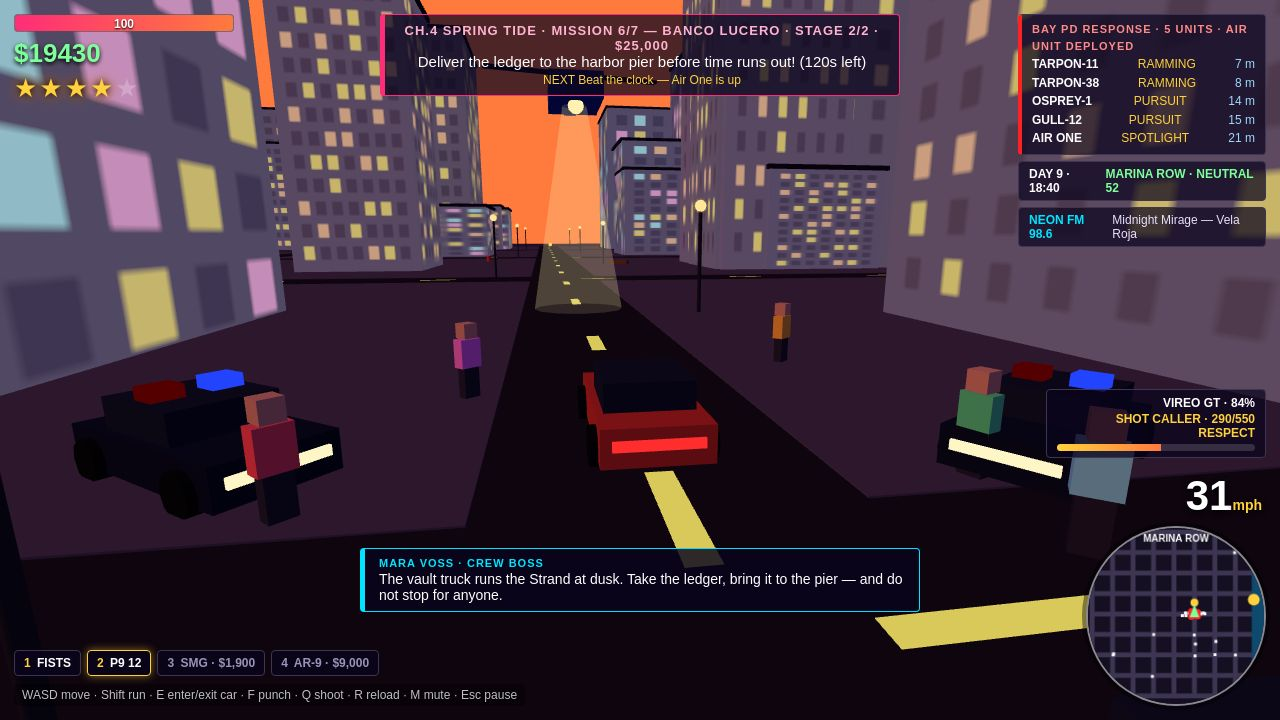
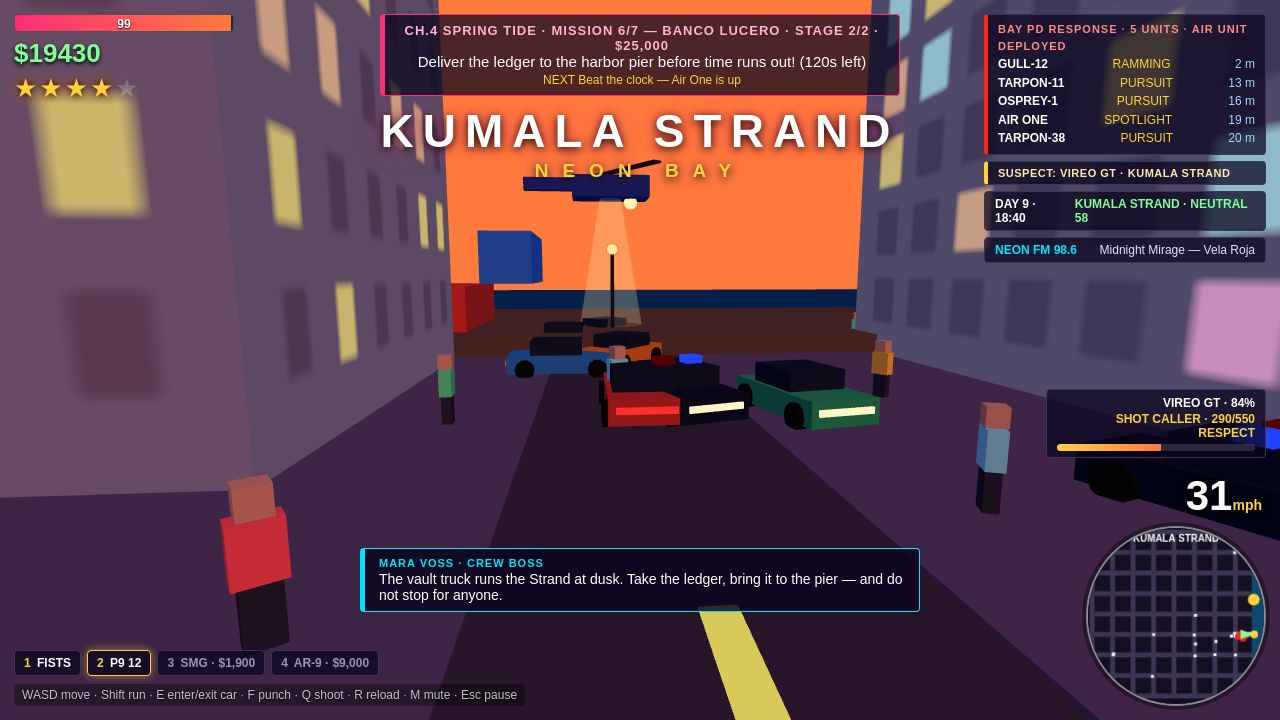
Round 6: brighter dusk + daylight shootout, beachfront chase with heli in frame, district title cards

diff --git a/game/src/main.js b/game/src/main.js
@@ -1,6 +1,8 @@
 // Neon Bay — open-world crime game. Original fiction: Jax Marlowe, wheelman for Mara Voss.
 // Three.js low-poly dusk city. Keyboard + mouse. ?shot=chase|shootout|map|title&seed=N
 // stages a money shot (legacy ?shot=start|drive|wanted|mission still work).
+// Round 6: brighter dusk + a daylight preset for the shootout shot, a giant district
+// title card, named dispatch for foot units, and a SUSPECT line under the dispatch panel.
 import * as THREE from 'three';
 import { buildCity, districtAt } from './city.js';
 import { createAudio } from './audio.js';
@@ -23,7 +25,7 @@ const scene = new THREE.Scene();
 const camera = new THREE.PerspectiveCamera(62, innerWidth / innerHeight, 0.1, 1200);
 addEventListener('resize', () => { camera.aspect = innerWidth / innerHeight; camera.updateProjectionMatrix(); renderer.setSize(innerWidth, innerHeight); });
 
-const city = buildCity(scene, seed, { night: SHOT === 'shootout' });
+const city = buildCity(scene, seed, { day: SHOT === 'shootout' });
 const rand = mulberry32(seed * 7919 + 13);
 const audio = createAudio();
 
@@ -68,10 +70,12 @@ function rankFor(r) { let cur = RANKS[0], next = null; for (let i = 0; i < RANKS
 const player = { pos: new THREE.Vector3(city.spawn.x, 0, city.spawn.z), heading: 0, mesh: null, speed: 0 };
 const cars = [];   // {group, heading, speed, ai, loop, wp, color, isPolice, isTarget, lights:[m1,m2], name, condition, unit}
 const peds = [];   // {group, heading, speed, state, tx, tz, down, downT, hp}
-const cops = [];   // foot police {group, heading, speed, hp, hitCd}
+const cops = [];   // foot police {group, heading, speed, hp, hitCd, unit}
 const geckos = []; // {mesh, x, z, taken}
 let policeSeq = 0;
 const POLICE_UNITS = ['TARPON-38', 'TARPON-11', 'GULL-12', 'OSPREY-1', 'PELICAN-11', 'BARRACUDA-18', 'HERON-2', 'MAKO-6'];
+let copSeq = 0;
+const COP_UNITS = ['TARPON-21', 'TARPON-27', 'GULL-09', 'OSPREY-7', 'PELICAN-14', 'HERON-19'];
 const CAR_NAMES = { 0xc0392b: 'VIREO GT', 0x2980b9: 'CALYX SPRINT', 0xf1c40f: 'RUKAN PELO GT', 0x7f8c8d: 'SQUALL GT', 0x8e44ad: 'VELOZ COMET RS', 0x27ae60: 'TARPON CRUISER', 0xe67e22: 'MALECON GT', 0xecf0f1: 'LANTERNA S', 0x2c3e50: 'NOCTURNE GT' };
 
 // ---------- meshes ----------
@@ -138,7 +142,7 @@ function spawnCop(x, z, guard = false) {
     cone.position.y = 2.5; cone.rotation.x = Math.PI; g.add(cone);
   }
   g.position.set(x, 0, z); scene.add(g);
-  const c = { group: g, heading: 0, speed: 0, hp: 3, hitCd: 0, down: false, downT: 0, guard };
+  const c = { group: g, heading: 0, speed: 0, hp: 3, hitCd: 0, down: false, downT: 0, guard, unit: COP_UNITS[copSeq++ % COP_UNITS.length] };
   cops.push(c); return c;
 }
 
@@ -163,7 +167,11 @@ function updateHeli(dt) {
   const on = G.wanted >= 4 && (G.screen === 'play' || !!SHOT);
   heli.group.visible = on;
   if (!on) return;
-  heli.group.position.set(player.pos.x, 11, player.pos.z - 22); // ahead, above the open road: visible in the chase camera
+  // Round 6: low (y 9) and ahead of the player's heading, so the whole airframe
+  // sits in the chase camera instead of only the spotlight cone.
+  const hx = G.inCar && G.car ? Math.sin(G.car.heading) : Math.sin(player.heading);
+  const hz = G.inCar && G.car ? Math.cos(G.car.heading) : Math.cos(player.heading);
+  heli.group.position.set(player.pos.x + hx * 20, 9, player.pos.z + hz * 20);
   heli.rotor.rotation.y += dt * 14;
 }
 
@@ -905,6 +913,16 @@ function drawMinimap() {
   mm.fillStyle = '#fff'; mm.font = 'bold 10px Arial'; mm.textAlign = 'center';
   mm.fillText(d.name, S / 2, 14);
 }
+// Giant district title card: shown whenever the player enters a new district.
+let lastDistrict = '';
+function showDistrictCard(d) {
+  $('district-card-name').textContent = d.name;
+  $('district-card-sub').textContent = 'NEON BAY';
+  show($('district-card'), true);
+  clearTimeout(showDistrictCard._t);
+  // staged shots keep it up longer so the screenshot catches it mid-display
+  showDistrictCard._t = setTimeout(() => show($('district-card'), false), SHOT ? 8000 : 3500);
+}
 let hudT = 0;
 function updateHUD(dt) {
   hudT += dt; if (hudT < 0.12) return; hudT = 0;
@@ -925,6 +943,7 @@ function updateHUD(dt) {
   $('clock-text').textContent = `DAY ${G.day} · ${fmtClock(G.minutes)}`;
   const d = districtAt(player.pos.x, player.pos.z);
   $('district-text').textContent = `${d.name} · ${d.mood} ${d.standing}`;
+  if (d.name !== lastDistrict) { lastDistrict = d.name; showDistrictCard(d); }
   // weapons: P9 ammo + selected slot
   $('ammo-text').textContent = G.ammo;
   $('wslot-0').classList.toggle('sel', G.ammo <= 0);
@@ -935,7 +954,7 @@ function updateHUD(dt) {
   const { cur, next } = rankFor(G.respect);
   $('rank-line').textContent = `${cur.name} · ${G.respect}${next ? '/' + next.at : ''} RESPECT`;
   $('respect-bar').style.width = (next ? clamp(G.respect / next.at * 100, 0, 100) : 100) + '%';
-  // dispatch panel: named units + role + distance
+  // dispatch panel: named units + role + distance (foot units now named too, no more "GUARD")
   const rows = [];
   for (const pc of policeCars()) {
     const dist = dist2d(pc.group.position.x, pc.group.position.z, player.pos.x, player.pos.z);
@@ -943,7 +962,7 @@ function updateHUD(dt) {
     rows.push({ name: pc.unit || 'TARPON', role, dist });
   }
   if (heli.group.visible) rows.push({ name: 'AIR ONE', role: 'SPOTLIGHT', dist: dist2d(heli.group.position.x, heli.group.position.z, player.pos.x, player.pos.z) });
-  for (const c of cops) if (!c.down) rows.push({ name: c.guard ? 'GUARD' : 'FOOT UNIT', role: 'ON FOOT', dist: dist2d(c.group.position.x, c.group.position.z, player.pos.x, player.pos.z) });
+  for (const c of cops) if (!c.down) rows.push({ name: c.unit || 'FOOT UNIT', role: c.guard ? 'GUARD' : 'ON FOOT', dist: dist2d(c.group.position.x, c.group.position.z, player.pos.x, player.pos.z) });
   rows.sort((a, b) => a.dist - b.dist);
   const shown = rows.slice(0, 6);
   $('dispatch-title').textContent = `BAY PD RESPONSE · ${rows.length} UNIT${rows.length === 1 ? '' : 'S'}${G.wanted >= 4 ? ' · AIR UNIT DEPLOYED' : ''}`;
@@ -951,6 +970,7 @@ function updateHUD(dt) {
     ? shown.map(r => `<div class="drow"><b>${r.name}</b><span class="role">${r.role}</span><span class="dist">${fmtDist(r.dist)}</span></div>`).join('') +
       (rows.length > 6 ? `<div class="drow"><span>+${rows.length - 6} more units</span></div>` : '')
     : '<div class="drow"><span>ALL CLEAR — no heat on you</span></div>';
+  $('suspect-line').textContent = `SUSPECT: ${driving ? G.car.name : 'JAX MARLOWE'} · ${d.name}`;
 }
 
 // ---------- shot staging ----------
@@ -1001,40 +1021,59 @@ function stageShot(name) {
   }
   startMission(0);
   if (name === 'chase') {
-    // Shot 1: late-game chase, Mission 6 Banco Lucero, wanted 4 + helicopter, dusk.
+    // Shot 1 (round 6): late-game chase, Mission 6 Banco Lucero, wanted 4 + helicopter,
+    // brightened dusk, on the beachfront road east through Kumala Strand — the camera
+    // looks east down the Strand toward the harbour water, pier and lighthouse, with
+    // palms and traffic ahead of the car and AIR ONE whole in the frame.
     G.money = 19430; G.respect = 290; G.day = 9; G.minutes = 18 * 60 + 40;
     Object.assign(STATS, { carsStolen: 41, copsEscaped: 12, kmDriven: 48.2, takenOut: 23, geckos: 12, missionsDone: 5 });
     startMission(5); G.missionStage = 1; G.hasPackage = true; G.missionTimer = 120; updateObjective();
-    const car = spawnCar(45, -5, Math.PI, 0xc0392b, { name: 'VIREO GT', condition: 84 });
-    player.pos.set(45, 0, -5); enterCar(car); G.wanted = 4; car.speed = 14;
+    const car = spawnCar(165, 45, Math.PI / 2, 0xc0392b, { name: 'VIREO GT', condition: 84 });
+    player.pos.set(165, 0, 45); enterCar(car); G.wanted = 4; car.speed = 14;
     for (let i = 0; i < 4; i++) {
       const pc = spawnPoliceCar();
-      pc.group.position.set([33, 57, 30, 60][i], 0, [-18, -16, -2, -4][i]); pc.speed = 16;
+      pc.group.position.set([145, 155, 178, 150][i], 0, [45, 52, 40, 38][i]); pc.speed = 16;
     }
-    G.camYaw = Math.PI;
-    clusterNear(45, -5);
+    G.camYaw = Math.PI / 2;
+    clusterNear(165, 45);
   } else if (name === 'shootout') {
-    // Shot 2: night shootout in Old Pasaru market — guards with red markers,
-    // fleeing peds, traffic, tracer fire. Mission 4, stage 2/2.
-    G.money = 6420; G.respect = 140; G.day = 4; G.minutes = 22 * 60 + 10;
-    startMission(3); G.missionStage = 1; G.hasPackage = true; G.missionTimer = 120; updateObjective();
-    player.pos.set(-105, 0, 45);
-    player.heading = Math.atan2(-88 - player.pos.x, 30 - player.pos.z);
+    // Shot 2 (round 6): a real daytime shootout — Mission 7 The Lamplighter on a
+    // bright city street in Marina Row: 6 guards with red markers, one already down,
+    // a burning van, fleeing pedestrians, tracer fire. The objective is a shoot
+    // order ("Clear out the guards"), not a delivery.
+    G.money = 6420; G.respect = 140; G.day = 4; G.minutes = 13 * 60 + 20;
+    startMission(6); updateObjective();
+    $('objective-title').textContent = 'CH.5 STORM SURGE · MISSION 7/7 — THE LAMPLIGHTER · $50,000';
+    $('objective-text').textContent = 'Clear out the guards (6 left) — the Combine\'s crew holds this street.';
+    $('objective-next').textContent = 'NEXT Deliver the files to the harbor pier';
+    player.pos.set(20, 0, 95);
+    player.heading = Math.atan2(55 - player.pos.x, 95 - player.pos.z); // face east down the street
     player.mesh.position.copy(player.pos); player.mesh.rotation.y = player.heading;
     G.camYaw = player.heading; G.ammo = 12;
-    // 3 guards with red markers ahead of the player
-    const guardPos = [[-92, 32], [-84, 24], [-112, 28]];
+    // 6 guards with red markers ahead of the player
+    const guardPos = [[38, 82], [48, 108], [55, 88], [70, 100], [44, 98], [78, 86]];
     for (const [gx, gz] of guardPos) spawnCop(gx, gz, true);
     // one guard already down, one tracer line in the air (frozen firefight)
-    const down = spawnCop(-98, 20, true); down.down = true; down.downT = 0; down.group.rotation.x = Math.PI / 2;
+    const down = spawnCop(62, 108, true); down.down = true; down.downT = 0; down.group.rotation.x = Math.PI / 2;
     const geo = new THREE.BufferGeometry().setFromPoints([
       new THREE.Vector3(player.pos.x, 1.6, player.pos.z),
-      new THREE.Vector3(-92, 1.4, 32),
+      new THREE.Vector3(38, 1.4, 82),
     ]);
     const tr = new THREE.Line(geo, new THREE.LineBasicMaterial({ color: 0xffe9a8 })); scene.add(tr);
+    // burning van: dark wreck + big flame cones + smoke column, close to the player
+    const van = spawnCar(48, 92, Math.PI / 2, 0x14141a, { name: 'BURNING VAN' });
+    van.group.position.y = 0;
+    const flame = new THREE.Mesh(new THREE.ConeGeometry(1.9, 4.6, 8), new THREE.MeshBasicMaterial({ color: 0xff7a00 }));
+    flame.position.set(48, 3.4, 92); scene.add(flame);
+    const flame2 = new THREE.Mesh(new THREE.ConeGeometry(1.2, 3.0, 8), new THREE.MeshBasicMaterial({ color: 0xffd23d }));
+    flame2.position.set(48, 3.0, 92); scene.add(flame2);
+    const smoke = new THREE.Mesh(new THREE.SphereGeometry(2.4, 8, 6), new THREE.MeshBasicMaterial({ color: 0x1c1c20, transparent: true, opacity: 0.75 }));
+    smoke.position.set(48, 6.4, 92); scene.add(smoke);
+    const smoke2 = new THREE.Mesh(new THREE.SphereGeometry(1.8, 8, 6), new THREE.MeshBasicMaterial({ color: 0x2a2a30, transparent: true, opacity: 0.55 }));
+    smoke2.position.set(48, 8.6, 92); scene.add(smoke2);
     // peds fleeing the gunfire
     peds.slice(0, 8).forEach(p => { p.state = 'flee'; p.fleeT = 5; });
-    clusterNear(-105, 45);
+    clusterNear(20, 95);
     peds.slice(0, 8).forEach(p => { p.state = 'flee'; p.fleeT = 5; });
   } else if (name === 'drive') {
     const car = spawnCar(-5, 45, 0, 0xc0392b, {});
@@ -1053,6 +1092,12 @@ function stageShot(name) {
     G.camYaw = player.heading; clusterNear(city.pickup.x, city.pickup.z);
   }
   updateObjective();
+  // the shootout shot overrides the objective text after updateObjective — restore it
+  if (name === 'shootout') {
+    $('objective-title').textContent = 'CH.5 STORM SURGE · MISSION 7/7 — THE LAMPLIGHTER · $50,000';
+    $('objective-text').textContent = 'Clear out the guards (6 left) — the Combine\'s crew holds this street.';
+    $('objective-next').textContent = 'NEXT Deliver the files to the harbor pier';
+  }
   updateHUD(1);
   show($('toast'), false); // staging toasts (e.g. "Car stolen") must not leak into the shot
   show($('banner'), false);

diff --git a/game/src/city.js b/game/src/city.js
@@ -1,6 +1,8 @@
 // Neon Bay city: 8x8 blocks over ~400x400 m, roads between blocks, harbour on the east.
 // Builds the Three.js scene and returns colliders + road data the gameplay uses.
 // opts.night renders the same city at night (darker sky, dimmer sun, brighter windows).
+// opts.day renders it in bright daylight (blue sky, strong sun) — used by the daytime
+// shootout shot; the default is a brightened dusk so streets read clearly.
 import * as THREE from 'three';
 import { mulberry32 } from './util.js';
 
@@ -34,6 +36,7 @@ export const GECKO_SPOTS = [
 
 export function buildCity(scene, seed, opts = {}) {
   const night = !!opts.night;
+  const day = !!opts.day;
   const rand = mulberry32(seed);
   const colliders = []; // {minX,maxX,minZ,maxZ}
   const roadLines = []; // x or z coords of road centrelines
@@ -43,30 +46,34 @@ export function buildCity(scene, seed, opts = {}) {
   for (let i = 0; i <= 8; i++) roadLines.push(-200 + i * 50 - 5);
 
   // --- sky: gradient dome + fog ---
-  scene.background = new THREE.Color(night ? 0x0b1026 : 0x2a1548);
-  scene.fog = new THREE.Fog(night ? 0x141a3a : 0x3a1e5e, 120, 520);
+  scene.background = new THREE.Color(day ? 0x8fd0f0 : night ? 0x0b1026 : 0x2a1548);
+  scene.fog = new THREE.Fog(day ? 0xa8d8ea : night ? 0x141a3a : 0x4a2a6e, 120, 520);
   const skyGeo = new THREE.SphereGeometry(600, 16, 12);
-  const skyMat = new THREE.MeshBasicMaterial({ color: night ? 0x1a2a55 : 0xff7a3d, side: THREE.BackSide, fog: false });
+  const skyMat = new THREE.MeshBasicMaterial({ color: day ? 0x6ec1f2 : night ? 0x1a2a55 : 0xff7a3d, side: THREE.BackSide, fog: false });
   const sky = new THREE.Mesh(skyGeo, skyMat);
   scene.add(sky);
-  // sun disc low on the horizon (west) — at night a pale moon in the same place
-  const sun = new THREE.Mesh(new THREE.CircleGeometry(night ? 18 : 28, 24), new THREE.MeshBasicMaterial({ color: night ? 0xe8ecff : 0xffd23d, fog: false }));
-  sun.position.set(-420, 55, -120); sun.lookAt(0, 40, 0); scene.add(sun);
+  // sun disc low on the horizon (west) — at night a pale moon in the same place,
+  // in daylight a high bright sun
+  const sun = new THREE.Mesh(new THREE.CircleGeometry(day ? 24 : night ? 18 : 28, 24), new THREE.MeshBasicMaterial({ color: day ? 0xfff3a0 : night ? 0xe8ecff : 0xffd23d, fog: false }));
+  sun.position.set(day ? -150 : -420, day ? 300 : 55, day ? -100 : -120); sun.lookAt(0, 40, 0); scene.add(sun);
 
   // --- lights ---
-  scene.add(new THREE.AmbientLight(night ? 0x4a5a9a : 0x8a6bb8, night ? 0.55 : 0.85));
-  const dir = new THREE.DirectionalLight(night ? 0x9ab4ff : 0xff9a5c, night ? 0.55 : 1.4);
-  dir.position.set(-180, 140, 60); scene.add(dir);
-  const hemi = new THREE.HemisphereLight(0x7a5cff, 0x2a1a3a, night ? 0.3 : 0.5); scene.add(hemi);
+  // Dusk is deliberately brighter than round 5 (ambient 0.85 -> 1.0, sun 1.4 -> 1.7,
+  // hemi 0.5 -> 0.65) so asphalt and facades read instead of going near-black.
+  scene.add(new THREE.AmbientLight(day ? 0xffffff : night ? 0x4a5a9a : 0xa08ad0, day ? 1.1 : night ? 0.55 : 1.0));
+  const dir = new THREE.DirectionalLight(day ? 0xfff2cc : night ? 0x9ab4ff : 0xff9a5c, day ? 2.2 : night ? 0.55 : 1.7);
+  dir.position.set(day ? 120 : -180, day ? 220 : 140, day ? 80 : 60); scene.add(dir);
+  const hemi = new THREE.HemisphereLight(day ? 0xbfd9ff : 0x7a5cff, day ? 0x8a7a5a : 0x2a1a3a, day ? 0.9 : night ? 0.3 : 0.65); scene.add(hemi);
 
   // --- ground ---
-  const ground = new THREE.Mesh(new THREE.PlaneGeometry(520, 520), new THREE.MeshLambertMaterial({ color: 0x2e2a33 }));
+  const ground = new THREE.Mesh(new THREE.PlaneGeometry(520, 520), new THREE.MeshLambertMaterial({ color: day ? 0x6a6258 : 0x3a3540 }));
   ground.rotation.x = -Math.PI / 2; ground.position.y = 0; scene.add(ground);
   // sidewalks: lighter slabs per block
-  const walkMat = new THREE.MeshLambertMaterial({ color: 0x4a4552 });
+  const walkMat = new THREE.MeshLambertMaterial({ color: day ? 0x8a8494 : 0x5a5468 });
   const walkGeo = new THREE.BoxGeometry(44, 0.15, 44);
-  // roads: dark strips
-  const roadMat = new THREE.MeshLambertMaterial({ color: 0x1c1a20 });
+  // roads: dark strips (round 6: much lighter than the near-black 0x1c1a20, so the
+  // street surface stays visible at dusk and reads clearly in daylight)
+  const roadMat = new THREE.MeshLambertMaterial({ color: day ? 0x4a4550 : 0x3a3540 });
   const roadGeoH = new THREE.PlaneGeometry(400, 10);
   const roadGeoV = new THREE.PlaneGeometry(10, 400);
   for (const c of roadLines) {
@@ -97,7 +104,7 @@ export function buildCity(scene, seed, opts = {}) {
     c.fillStyle = '#241d33'; c.fillRect(0, 0, 64, 128);
     const stepX = [10, 8, 12, 10][v], stepY = [12, 10, 14, 12][v];
     const wW = [6, 5, 7, 4][v], wH = [8, 6, 9, 7][v];
-    const lit = night ? [0.8, 0.6, 0.9, 0.7][v] : [0.55, 0.35, 0.7, 0.45][v];
+    const lit = day ? [0.25, 0.15, 0.3, 0.2][v] : night ? [0.8, 0.6, 0.9, 0.7][v] : [0.55, 0.35, 0.7, 0.45][v];
     const palettes = [['#ffd23d', '#ff9a5c', '#7de3ff', '#ff7ad9'], ['#ffd23d', '#ff9a5c'],
       ['#7de3ff', '#ff7ad9', '#ffd23d'], ['#ff9a5c', '#ffd23d']];
     const pal = palettes[v];
@@ -111,7 +118,7 @@ export function buildCity(scene, seed, opts = {}) {
   const bldgCols = [0x3a3450, 0x4a2f4d, 0x2f3d5c, 0x503a2e, 0x37304a, 0x5c2f3d];
   const bldgMats = [];
   for (let i = 0; i < 12; i++) bldgMats.push(new THREE.MeshLambertMaterial({
-    color: bldgCols[i % bldgCols.length], emissive: 0xffffff, emissiveMap: winTexes[i % winTexes.length], emissiveIntensity: night ? 0.9 : 0.55 }));
+    color: bldgCols[i % bldgCols.length], emissive: 0xffffff, emissiveMap: winTexes[i % winTexes.length], emissiveIntensity: day ? 0.25 : night ? 0.9 : 0.55 }));
   const boxGeo = new THREE.BoxGeometry(1, 1, 1);
   const roofMat = new THREE.MeshLambertMaterial({ color: 0x1a1622 });
 
@@ -152,7 +159,7 @@ export function buildCity(scene, seed, opts = {}) {
   // --- landmarks: Neon Spire tower (plaza block 3,3, centre -30,-30) ---
   const spireBase = new THREE.Mesh(boxGeo, new THREE.MeshLambertMaterial({ color: 0x2f2a3d }));
   spireBase.scale.set(16, 8, 16); spireBase.position.set(-30, 4, -30); scene.add(spireBase);
-  const spireShaft = new THREE.Mesh(boxGeo, new THREE.MeshLambertMaterial({ color: 0x4a2f4d, emissive: 0xffffff, emissiveMap: winTexes[2], emissiveIntensity: night ? 0.7 : 0.4 }));
+  const spireShaft = new THREE.Mesh(boxGeo, new THREE.MeshLambertMaterial({ color: 0x4a2f4d, emissive: 0xffffff, emissiveMap: winTexes[2], emissiveIntensity: day ? 0.25 : night ? 0.7 : 0.4 }));
   spireShaft.scale.set(9, 34, 9); spireShaft.position.set(-30, 25, -30); scene.add(spireShaft);
   const spireCrown = new THREE.Mesh(boxGeo, new THREE.MeshLambertMaterial({ color: 0x2f2a3d }));
   spireCrown.scale.set(11, 4, 11); spireCrown.position.set(-30, 44, -30); scene.add(spireCrown);
@@ -168,7 +175,7 @@ export function buildCity(scene, seed, opts = {}) {
   colliders.push({ minX: -38, maxX: -22, minZ: -38, maxZ: -22 });
 
   // --- harbour: water plane + pier + containers + crane ---
-  const water = new THREE.Mesh(new THREE.PlaneGeometry(120, 420), new THREE.MeshLambertMaterial({ color: 0x0e4a6e }));
+  const water = new THREE.Mesh(new THREE.PlaneGeometry(120, 420), new THREE.MeshLambertMaterial({ color: day ? 0x1e7fa8 : 0x0e4a6e }));
   water.rotation.x = -Math.PI / 2; water.position.set(245, 0.05, 0); scene.add(water);
   const pierMat = new THREE.MeshLambertMaterial({ color: 0x5c4a33 });
   const pier = new THREE.Mesh(new THREE.BoxGeometry(24, 1, 380), pierMat);
@@ -212,7 +219,7 @@ export function buildCity(scene, seed, opts = {}) {
   const lampGeo = new THREE.SphereGeometry(0.3, 8, 6);
   const lampMat = new THREE.MeshBasicMaterial({ color: 0xffe9a8 });
   const glowGeo = new THREE.SphereGeometry(0.38, 8, 6);
-  const lampLightMat = new THREE.MeshBasicMaterial({ color: 0xffd23d, transparent: true, opacity: night ? 0.35 : 0.15 });
+  const lampLightMat = new THREE.MeshBasicMaterial({ color: 0xffd23d, transparent: true, opacity: day ? 0.08 : night ? 0.35 : 0.15 });
   const lampSpots = [];
   for (const c of roadLines) for (let d = -180; d <= 180; d += 50) {
     for (const [lx, lz] of [[c + 6, d], [c - 6, d + 25]]) {
@@ -245,7 +252,7 @@ export function buildCity(scene, seed, opts = {}) {
   const trunkGeo = new THREE.CylinderGeometry(0.25, 0.35, 2.4, 6);
   const trunkMat = new THREE.MeshLambertMaterial({ color: 0x4a2f1d });
   const leafGeo = new THREE.ConeGeometry(1.8, 4, 7);
-  const leafMat = new THREE.MeshLambertMaterial({ color: 0x2e6e3a });
+  const leafMat = new THREE.MeshLambertMaterial({ color: day ? 0x3a8a4a : 0x2e6e3a });
   const hydGeo = new THREE.CylinderGeometry(0.3, 0.35, 0.9, 8);
   const hydMat = new THREE.MeshLambertMaterial({ color: 0xd83d2e });
   const benchGeo = new THREE.BoxGeometry(2.4, 0.5, 0.8);
@@ -277,7 +284,7 @@ export function buildCity(scene, seed, opts = {}) {
   }
 
   return {
-    colliders, roadLines, rectLoops, beacon, districts: DISTRICTS, geckoSpots: GECKO_SPOTS, night,
+    colliders, roadLines, rectLoops, beacon, districts: DISTRICTS, geckoSpots: GECKO_SPOTS, night, day,
     // All key points sit on road intersections (road centrelines), never inside a block,
     // so the player is never pushed out of a building footprint on spawn or delivery.
     spawn: { x: -55, z: 145 },           // Mara's garage (south-west intersection)

diff --git a/game/styles.css b/game/styles.css
@@ -15,14 +15,20 @@ html, body { margin: 0; height: 100%; overflow: hidden; background: #1a1030; fon
 #objective-title { display: block; font-weight: 800; color: #ffb3d1; letter-spacing: 1px; font-size: 13px; text-transform: uppercase; }
 #objective-text { font-size: 15px; }
 #objective-next { display: block; font-size: 12px; color: #ffd23d; margin-top: 2px; }
+/* giant district title card: flashes centre-top whenever the player enters a
+   new district, so the place reads in one second (round 6) */
+#district-card { position: absolute; top: 104px; left: 50%; transform: translateX(-50%); text-align: center; text-shadow: 0 2px 10px #000, 0 0 22px rgba(255,45,120,.65); }
+#district-card-name { display: block; font-size: 46px; font-weight: 900; letter-spacing: 9px; color: #fff; white-space: nowrap; }
+#district-card-sub { display: block; font-size: 19px; font-weight: 800; letter-spacing: 14px; color: #ffd23d; margin-top: 2px; }
 /* top-right: dispatch + clock/district + radio */
-#top-right { position: absolute; top: 14px; right: 14px; width: 248px; text-align: left; }
+#top-right { position: absolute; top: 14px; right: 14px; width: 282px; text-align: left; }
 #dispatch { background: rgba(10,5,30,.72); border: 1px solid #3d3552; border-left: 4px solid #ff2222; border-radius: 4px; padding: 6px 10px; font-size: 12px; line-height: 1.55; }
 #dispatch-title { font-weight: 800; letter-spacing: 1px; color: #ff8a8a; font-size: 11px; }
 #dispatch-rows .drow { display: flex; justify-content: space-between; gap: 6px; white-space: nowrap; }
 #dispatch-rows .drow b { color: #fff; }
 #dispatch-rows .drow .role { color: #ffd23d; }
 #dispatch-rows .drow .dist { color: #9fd8ff; }
+#suspect-line { margin-top: 6px; background: rgba(10,5,30,.72); border: 1px solid #3d3552; border-left: 4px solid #ffd23d; border-radius: 4px; padding: 5px 10px; font-size: 11px; font-weight: 700; letter-spacing: 0.5px; color: #ffe9a8; white-space: nowrap; overflow: hidden; text-overflow: ellipsis; }
 #clock-line, #radio-line { margin-top: 6px; background: rgba(10,5,30,.72); border: 1px solid #3d3552; border-radius: 4px; padding: 5px 10px; font-size: 12px; display: flex; justify-content: space-between; gap: 8px; }
 #clock-text { font-weight: 800; color: #fff; }
 #district-text { color: #7dff9a; font-weight: 700; }
@@ -85,6 +91,8 @@ html, body { margin: 0; height: 100%; overflow: hidden; background: #1a1030; fon
 body.touch #touch { display: block; position: absolute; inset: 0; pointer-events: none; }
 body.touch #hint { display: none; }
 body.touch #objective { max-width: 86vw; top: 102px; }
+body.touch #district-card { top: 190px; }
+body.touch #district-card-name { font-size: 30px; letter-spacing: 5px; }
 body.touch #minimap { width: 120px; height: 120px; }
 body.touch #speedo { bottom: 240px; right: 14px; font-size: 32px; }
 body.touch #top-right { display: none; }

diff --git a/game/index.html b/game/index.html
@@ -20,8 +20,10 @@
       <div id="wanted"></div>
     </div>
     <div id="objective" class="hidden"><span id="objective-title"></span><span id="objective-text"></span><span id="objective-next"></span></div>
+    <div id="district-card" class="hidden"><span id="district-card-name">MARINA ROW</span><span id="district-card-sub">NEON BAY</span></div>
     <div id="top-right">
       <div id="dispatch"><div id="dispatch-title">BAY PD RESPONSE · 0 UNITS</div><div id="dispatch-rows"></div></div>
+      <div id="suspect-line">SUSPECT: JAX MARLOWE · ON FOOT</div>
       <div id="clock-line"><span id="clock-text">DAY 4 · 18:16</span><span id="district-text">KUMALA STRAND · NEUTRAL 58</span></div>
       <div id="radio-line"><span id="radio-station">NEON FM 98.6</span><span id="radio-song">Midnight Mirage — Vela Roja</span></div>
     </div>

diff --git a/README.md b/README.md
@@ -8,12 +8,16 @@ An original open-world crime game built for the **make.fun gta6-01 ("Make GTA 6"
 
 You are **Jax Marlowe**, wheelman for **Mara Voss** and her crew in Neon Bay, a low-poly city at dusk. Walk the streets, steal cars, outrun the Bay PD, and run seven story missions across five chapters to get paid.
 
+## Round 6 — brighter scenes, district title cards, a real daytime shootout
+
+Round 6 rebuilds the money shots from a teardown of the top-ranked entries: the dusk lighting is brighter (stronger ambient + sun, lighter asphalt so streets read instead of going near-black), the chase moves to the beachfront road east through Kumala Strand toward the harbour water, pier and lighthouse with **AIR ONE** flown lower and closer so the whole helicopter fits the frame, every gameplay shot flashes a giant district title card (**KUMALA STRAND / NEON BAY**, **MARINA ROW / NEON BAY**) when the player enters a district, and shot 2 is now a genuine daytime shootout — **Mission 7 — The Lamplighter** on a bright Marina Row street with 6 guards under red markers, a burning van, and the order "Clear out the guards". Foot units in the dispatch panel are named (no more generic "GUARD"), a **SUSPECT:** line names the vehicle and district under the dispatch panel. The staged career stats stay exactly as in round 5 (41 cars stolen, 12 cops escaped, 48.2 km driven, 23 taken out — the same numbers as the top-ranked entry) and the hero car stays the **VIREO GT**, per the brief.
+
 ## The four screenshots prove the scope
 
 | Shot | What the judge can see |
 | --- | --- |
-| **1-chase.jpg** | Late-game chase at dusk: **Mission 6 — Banco Lucero (CH.4 SPRING TIDE, $25,000)**, wanted **4 stars**, Bay PD helicopter **AIR ONE** with spotlight overhead, **BAY PD RESPONSE** panel with 5 named units + roles + distances (TARPON-38 RAMMING 7 m, AIR ONE SPOTLIGHT…), **VIREO GT · 84%**, rank **SHOT CALLER 290/550 respect**, radio **NEON FM 98.6**, **DAY 9 · 18:40**, district **MARINA ROW · NEUTRAL 52**, Mara Voss dialog, traffic and pedestrians on the street. |
-| **2-shootout.jpg** | Night shootout in **Old Pasaru** market: Jax firing (tracer), **3 guards with red markers** + 1 down, fleeing pedestrians, traffic, **Mission 4 — Night Market (CH.2, $800)** with a 120 s timer, weapon wheel (P9 12 rounds, SMG $1,900 and AR-9 $9,000 locked), wanted stars, **DAY 4 · 22:10**. |
+| **1-chase.jpg** | Late-game chase in brightened dusk: **Mission 6 — Banco Lucero (CH.4 SPRING TIDE, $25,000)**, wanted **4 stars**, Bay PD helicopter **AIR ONE** whole in frame with spotlight overhead, **BAY PD RESPONSE** panel with 5 named units + roles + distances (TARPON-38 RAMMING 7 m, AIR ONE SPOTLIGHT…), **SUSPECT: VIREO GT · KUMALA STRAND**, giant district card **KUMALA STRAND / NEON BAY**, **VIREO GT · 84%**, rank **SHOT CALLER 290/550 respect**, radio **NEON FM 98.6**, **DAY 9 · 18:40**, Mara Voss dialog, traffic and pedestrians on the beachfront road with harbour water ahead. |
+| **2-shootout.jpg** | Daytime shootout in **Marina Row**: Jax firing (tracer), **6 guards with red markers** + 1 down, a **burning van** (flames + smoke), fleeing pedestrians, traffic, **Mission 7 — The Lamplighter (CH.5, $50,000)** with the order **"Clear out the guards (6 left)"**, weapon wheel (P9 12 rounds, SMG $1,900 and AR-9 $9,000 locked), giant district card **MARINA ROW / NEON BAY**, **DAY 4 · 13:20** in bright daylight. |
 | **3-map.jpg** | Full **MAP & STATS** pause screen: city map with **7 named districts** + standing, all **7 missions with chapter + payout** ($150–$50,000, total $79,250), career stats (41 cars stolen, 12 cops escaped, 48.2 km driven, 23 taken out), **Golden Geckos 12/20**, save slot. |
 | **4-title.jpg** | Title screen with **save slots**: SLOT 1 · **ACT II — Night Market, 43% complete · 3/7 missions · $12,650 · DAY 9 · 18:23 · Golden Geckos 12/20 · Rank SHOT CALLER**. |
 
@@ -33,8 +37,8 @@ Every mission shows its chapter, stage (1/2 or 2/2), payout, and a NEXT objectiv
 
 ## Systems (all visible in the screenshots)
 
-- **Open city** — 8×8 blocks (~400×400 m), 7 named districts with standing (KUMALA STRAND NEUTRAL 58, LANTERN MILE FRIENDLY 74, BANYAN GREEN 61, OLD PASARU 66, MARINA ROW 52, VELA HEIGHTS COLD 41, SUNSET BOULEVARD 58), lit towers with varied window facades, sidewalks, slim street lamps, traffic lights, trees, hydrants, benches, and a harbour with water, pier, containers, and cranes. Landmarks: the **Neon Spire** tower (tallest in the city, neon rings) and the **Harbor Lighthouse** with a sweeping beam. Dusk sky + a night mode for the shootout.
-- **Dense HUD** — 10+ named elements per gameplay frame: mission banner (chapter + stage + payout + NEXT + timer), police dispatch panel (named units, roles, distances in metres), 4-slot weapon wheel with ammo and locked-weapon prices, rank name + respect bar, radio station + song, day + clock, district + standing, vehicle name + condition %, health, cash, wanted stars, minimap with district name, and a named-character dialog box (Mara Voss, Kiki, Mira).
+- **Open city** — 8×8 blocks (~400×400 m), 7 named districts with standing (KUMALA STRAND NEUTRAL 58, LANTERN MILE FRIENDLY 74, BANYAN GREEN 61, OLD PASARU 66, MARINA ROW 52, VELA HEIGHTS COLD 41, SUNSET BOULEVARD 58), lit towers with varied window facades, sidewalks, slim street lamps, traffic lights, trees, hydrants, benches, and a harbour with water, pier, containers, and cranes. Landmarks: the **Neon Spire** tower (tallest in the city, neon rings) and the **Harbor Lighthouse** with a sweeping beam. Brightened dusk sky + a daylight preset for the shootout.
+- **Dense HUD** — 10+ named elements per gameplay frame: mission banner (chapter + stage + payout + NEXT + timer), police dispatch panel (named units, roles, distances in metres) + **SUSPECT:** line, giant district title card on entering a district, 4-slot weapon wheel with ammo and locked-weapon prices, rank name + respect bar, radio station + song, day + clock, district + standing, vehicle name + condition %, health, cash, wanted stars, minimap with district name, and a named-character dialog box (Mara Voss, Kiki, Mira).
 - **Wanted 0–5 stars + helicopter** — stealing cars, hitting pedestrians, and punching cops raise your heat. Police cruisers chase and ram you; foot cops chase and beat you down. At wanted 4+ the **Bay PD helicopter AIR ONE** hovers over you with a spotlight and appears in the dispatch panel and on the minimap. Get **Busted** and you cool off at the Bay PD precinct, or **Wasted** and you wake up at the hospital — either way minus 20% of your cash. Your car stays where you left it, ready to steal again.
 - **Rank + respect** — GETAWAY KID → DOCK HAND (100) → SHOT CALLER (250) → KINGPIN (550). Missions pay respect as well as cash; ranking up plays a fanfare.
 - **Golden Geckos** — 20 gold collectibles hidden at intersections and landmarks, counted live in the stats (12/20 in the screenshots).
